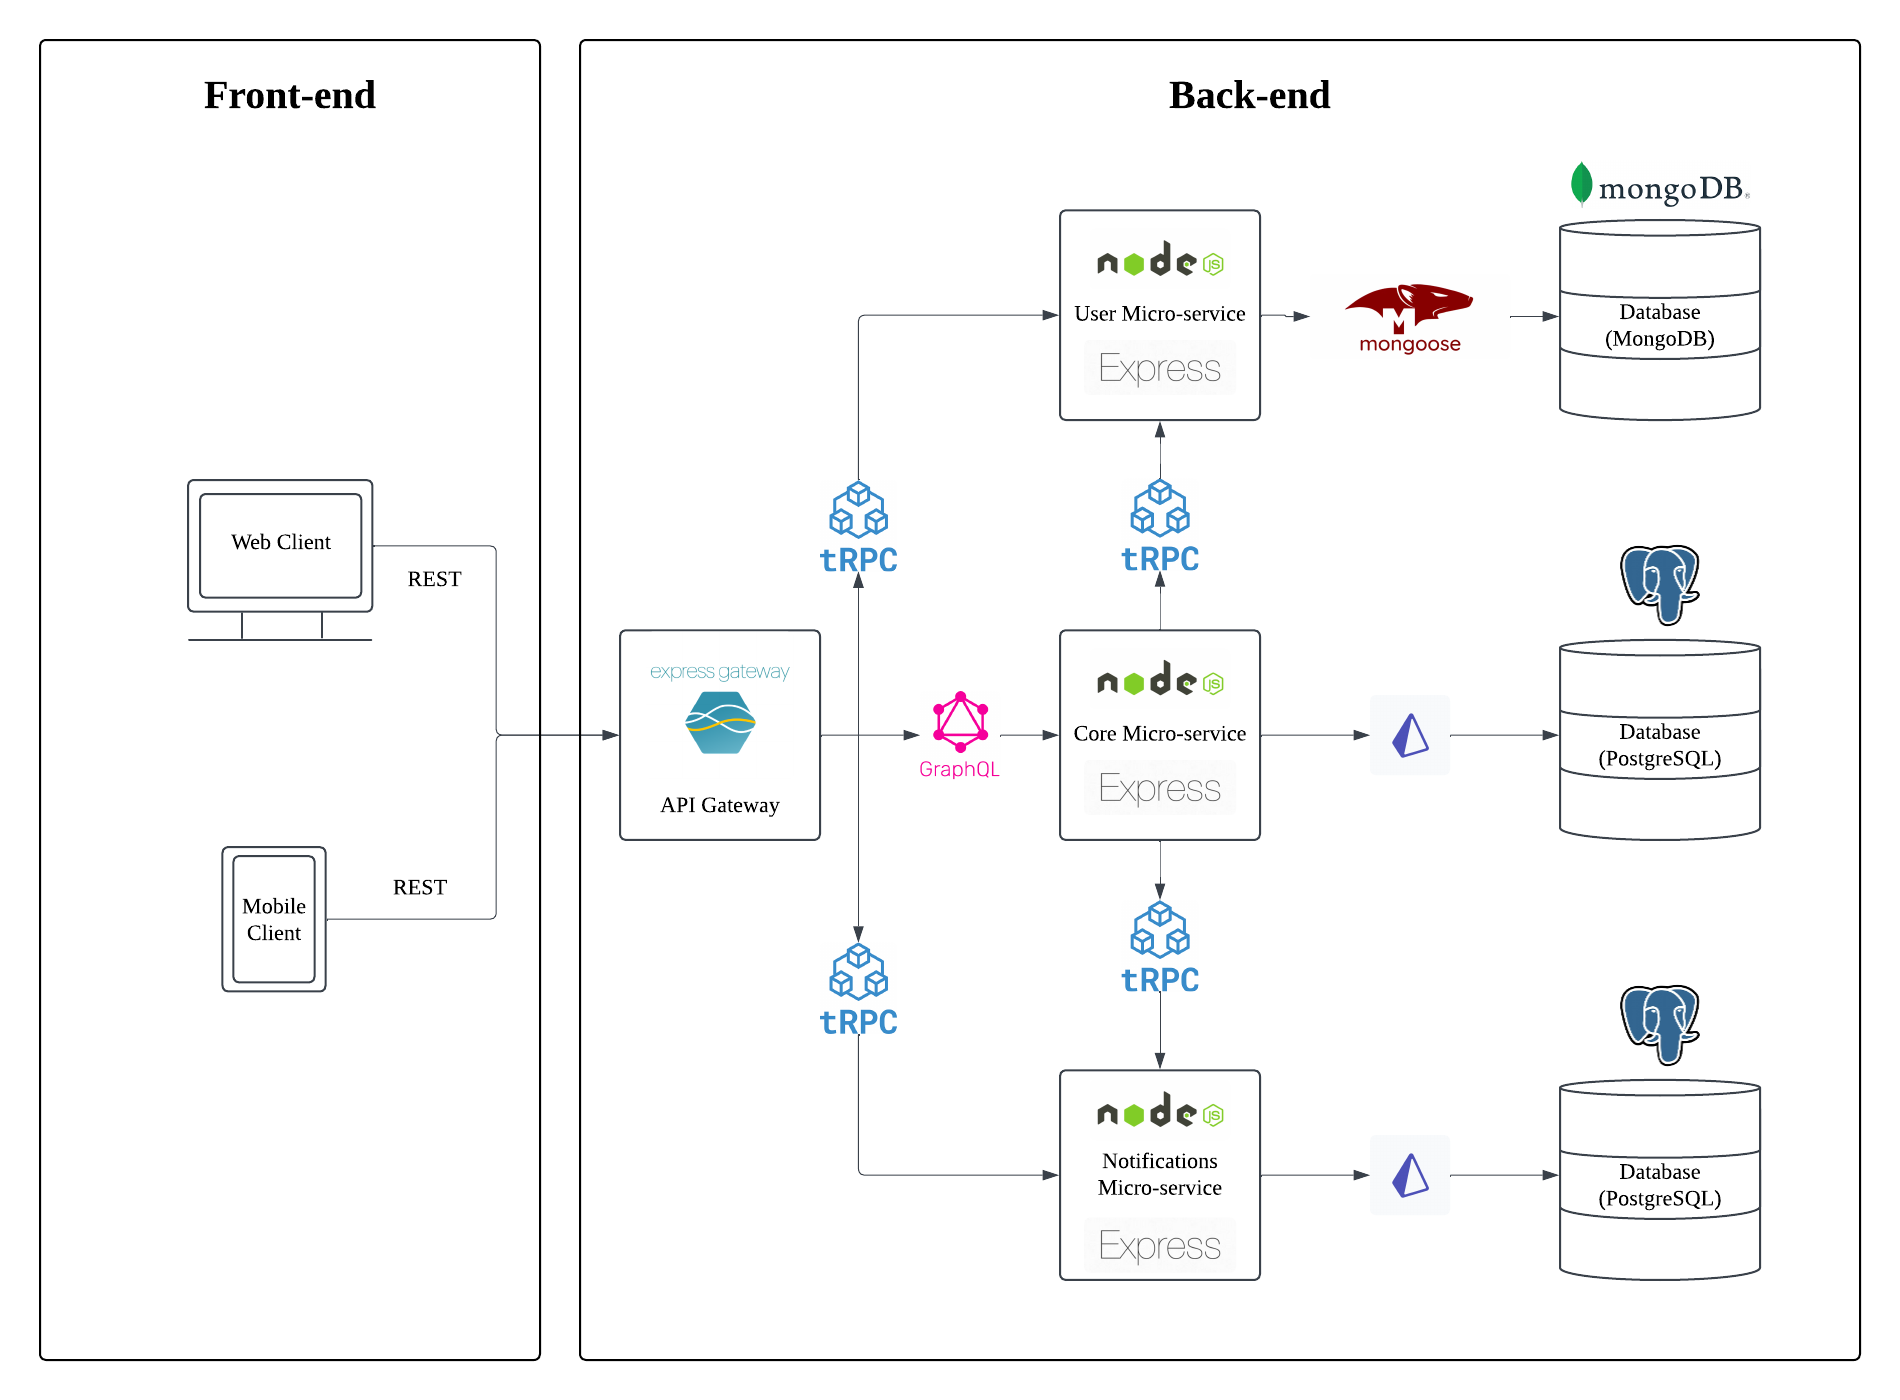
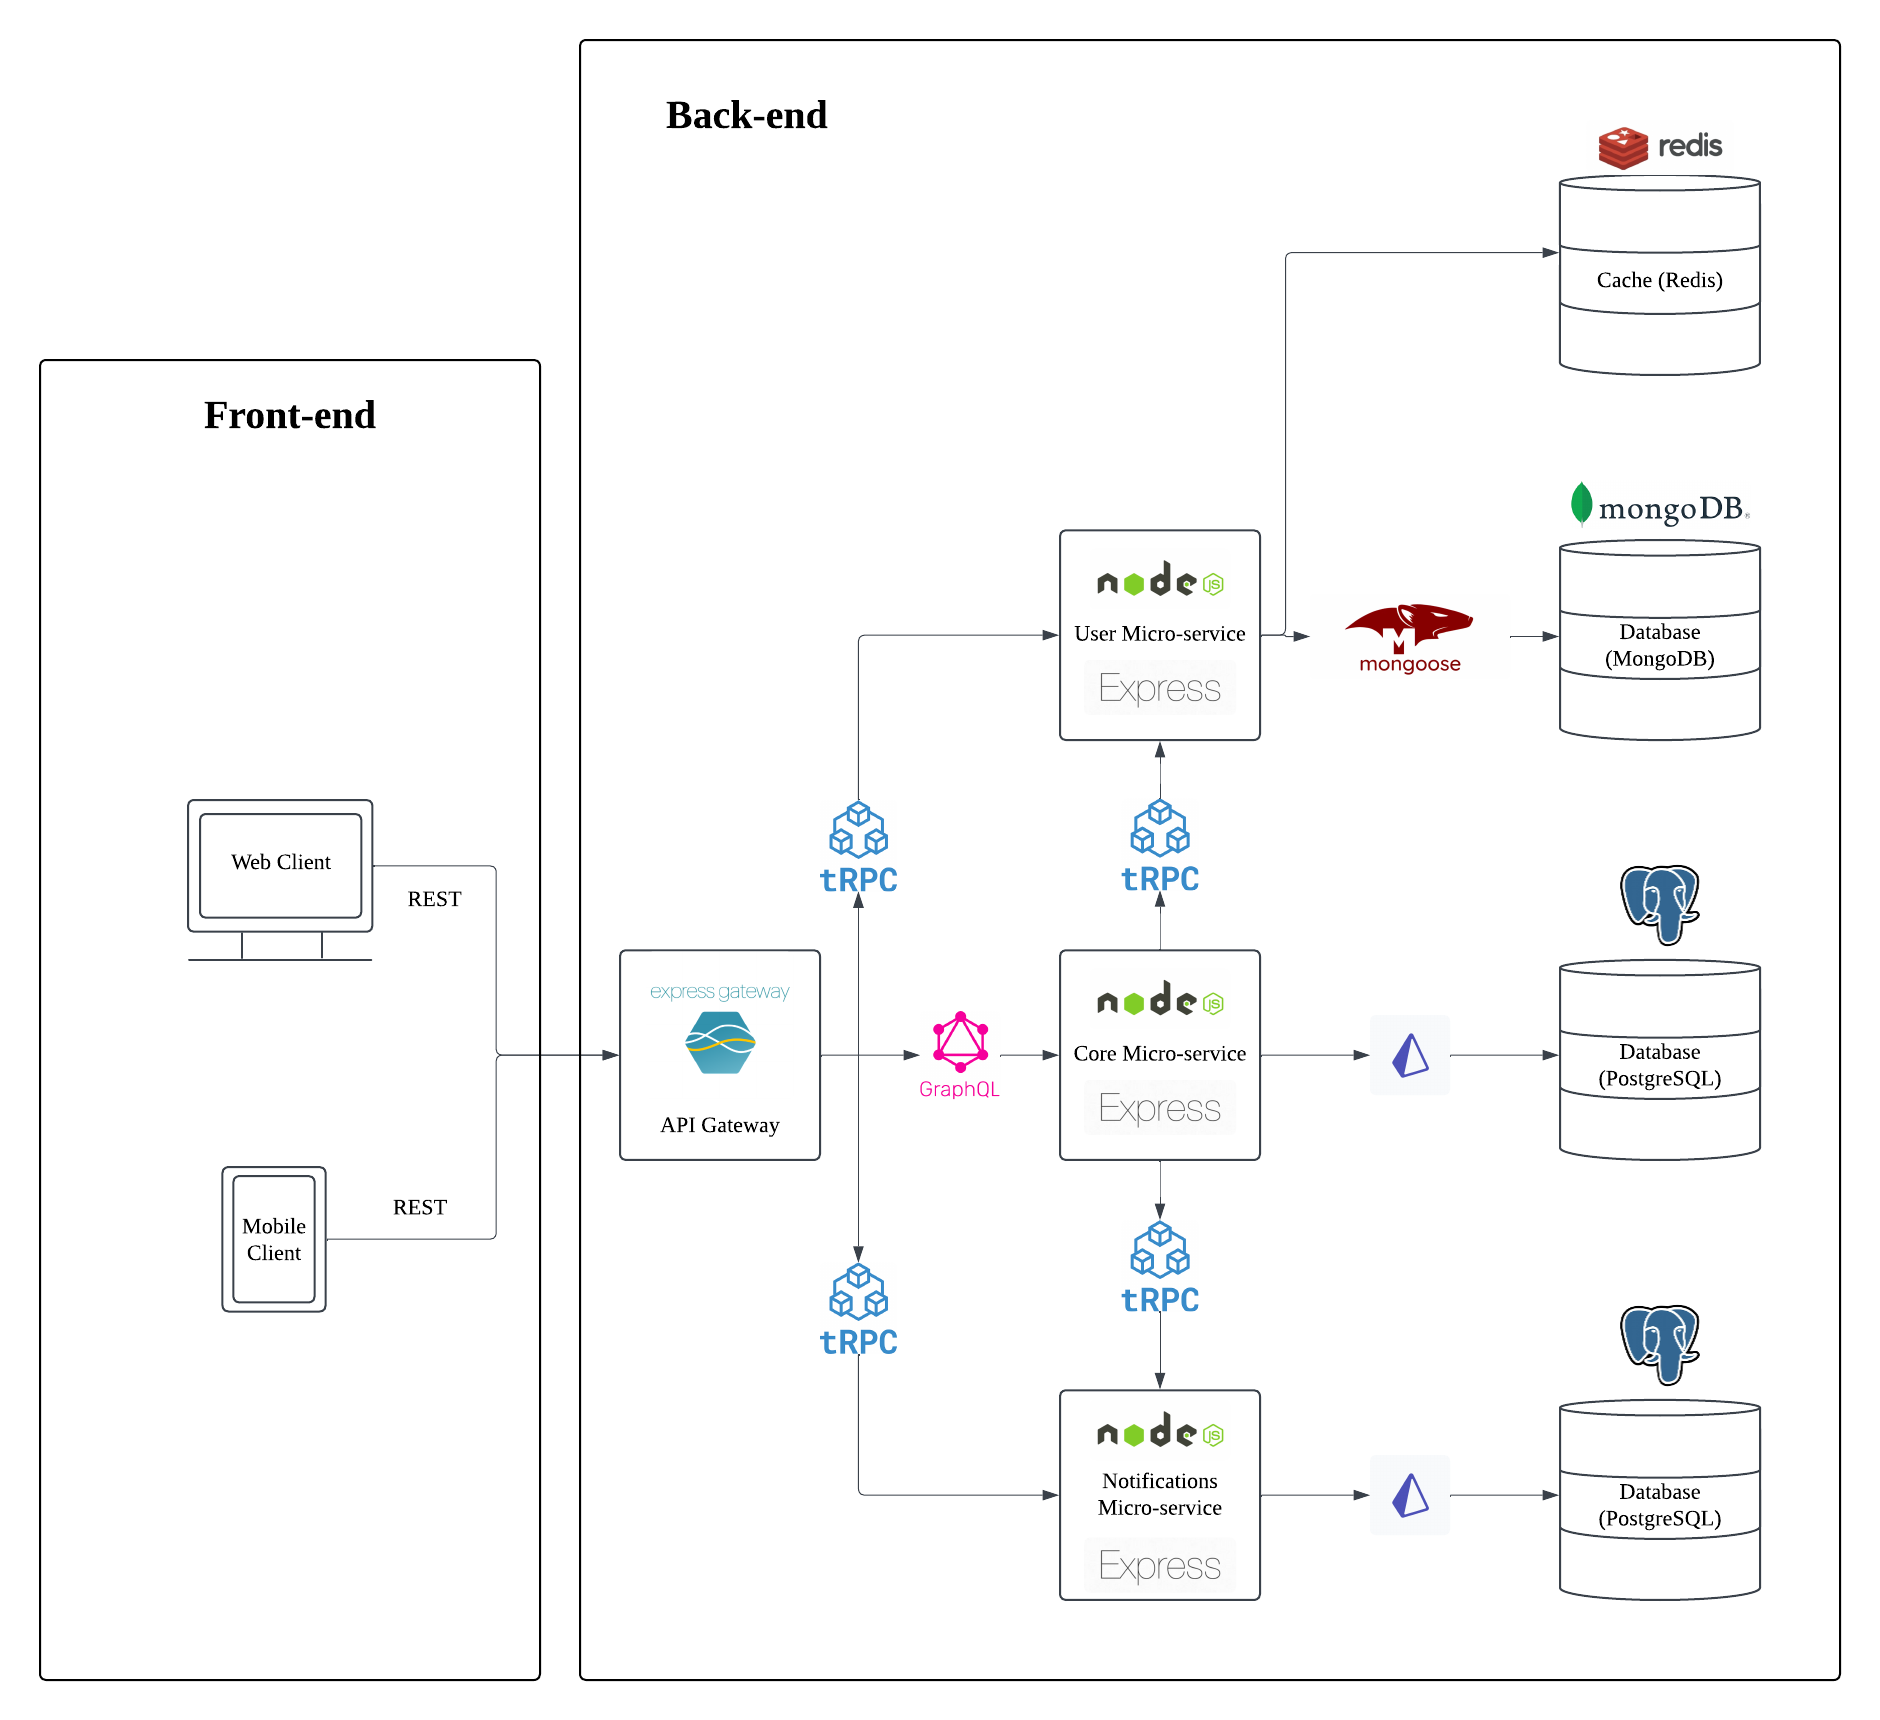
add database documentation (wip)

diff --git a/docs/system-architecture/architecure-diagram.md b/docs/system-architecture/architecure-diagram.md
@@ -73,6 +73,7 @@ The proposed architecture splits existing backend service into **three** separat
 1. **User Service** - Purely responsible for authentication, authorisation, and role-based access control.
    - The user service integrates with a [MongoDB](https://www.mongodb.com/) database to store user information. No relational information is required, so the more lightweight MongoDB is a natural choice.
    - It interfaces with the database using [Mongoose](https://mongoosejs.com/), a popular ODM (Object Document Mapping) library for MongoDB.
+   - The user service also interfaces with a [Redis](https://redis.io/) cache to store tokens. It is a lightweight in-memory cache that makes easy to set expiry times on blacklisted tokens.
 2. **Core Service** - Responsible for handling core functionality, such as CRUD operations for projects, tasks, and other entities.
    - The core service interfaces with a [PostgreSQL](https://www.postgresql.org/) database to store project and task information. Realtional information between projects, tasks and other entities is required, so PostgreSQL is a natural choice.
    - It interfaces with the database using [Prisma](https://www.prisma.io/), a popular ORM (Object Relational Mapping) library for PostgreSQL.

diff --git a/docs/data/databases.md b/docs/data/databases.md
@@ -1,0 +1,27 @@
+---
+sidebar_position: 1
+---
+
+# Databases
+
+## Current Implementation
+
+The current implementation of Flower uses a single PostgreSQL database to store all data.
+
+## Proposed Implementation
+
+The proposed implementation uses separate databases for the separate microservices:
+
+### User Service
+
+The user service was designed to independently deployable and decoupled from other services, so that it can be easily reused in other projects for authentication and authorisation.
+
+It has two standalone tables: Users and Tokens (JWTs).
+
+Since the token table is primarily a token blacklist where the tokens are stored until they expire, a lightweight in-memory [Redis](https://redis.io/) cache is used to store the tokens. Redis also make it easy to set expiry times on the tokens.
+
+The user table is a standalone table that stores user details. Since no relational data is stored in this table, it is not necessary to use a relational database. Thus, the user table can be stored in a NoSQL database such as [MongoDB](https://www.mongodb.com/).
+
+### Core Service
+
+### Notification Service

diff --git a/docs/system-architecture/technology-stack.md b/docs/system-architecture/technology-stack.md
@@ -31,6 +31,7 @@ The technology stack is divided into three main parts:
 2. Database - The database selections include:
    - [PostgreSQL](https://www.postgresql.org/)
    - [MongoDB](https://www.mongodb.com/)
+   - [Redis](https://redis.io/)
 3. ORM/ODM - The object-relational mapping (ORM) and object-document mapping (ODM) libraries include:
    - [Prisma](https://www.prisma.io/)
    - [Mongoose](https://mongoosejs.com/)

diff --git a/docs/data/data-models.md b/docs/data/data-models.md
@@ -1,0 +1,9 @@
+---
+sidebar_position: 2
+---
+
+# Data Models
+
+## Current Implementation
+
+## Proposed Implementation
